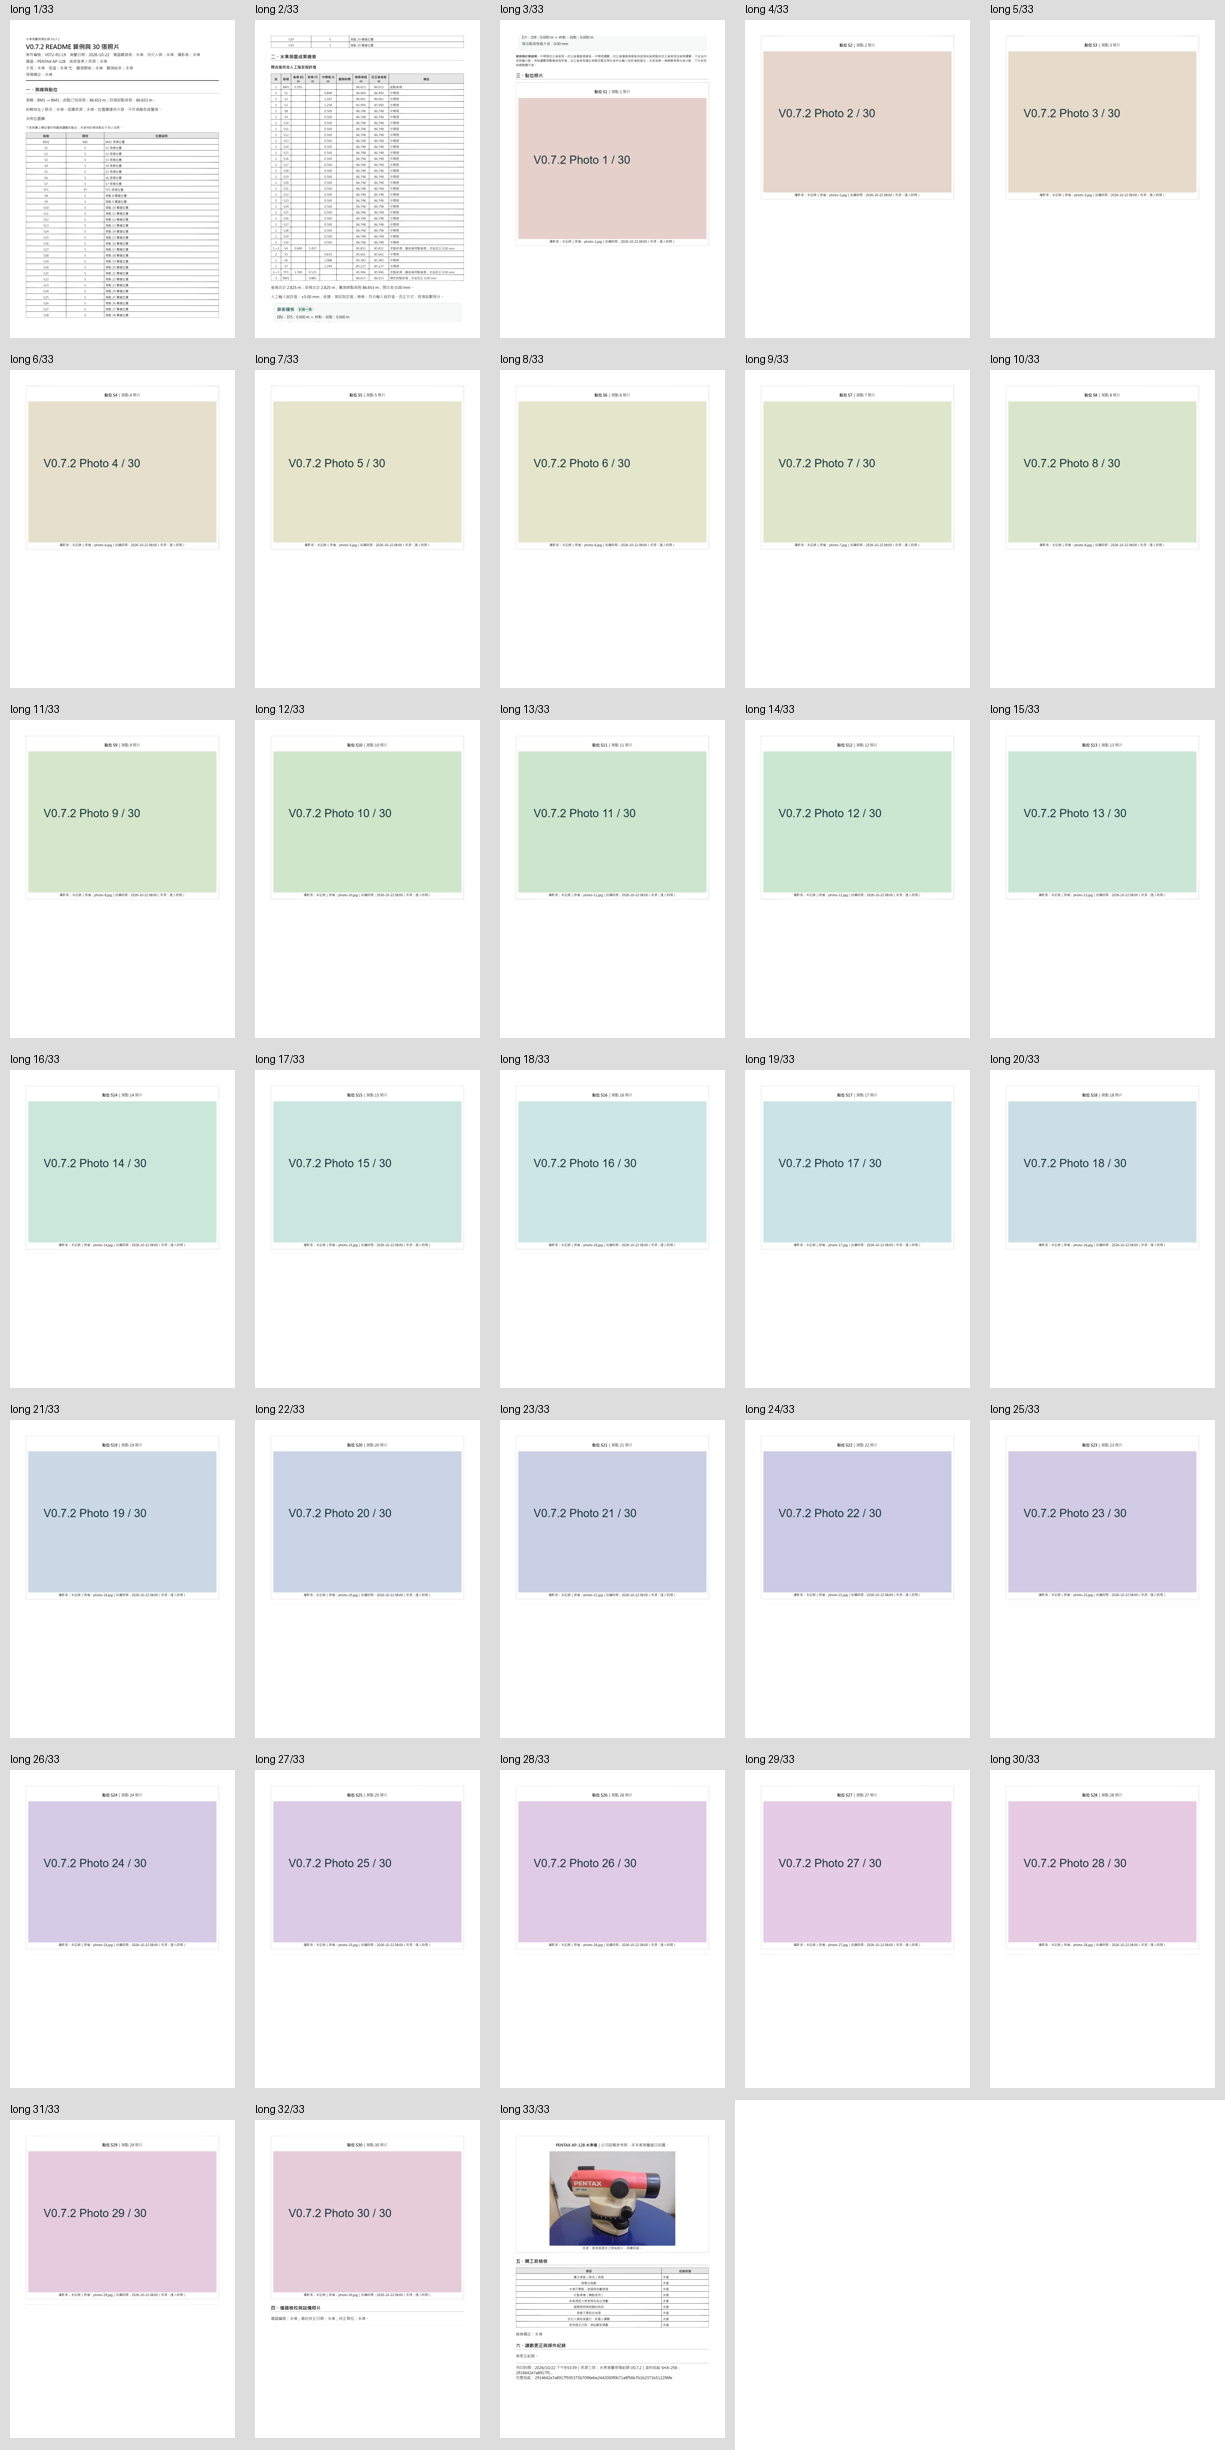
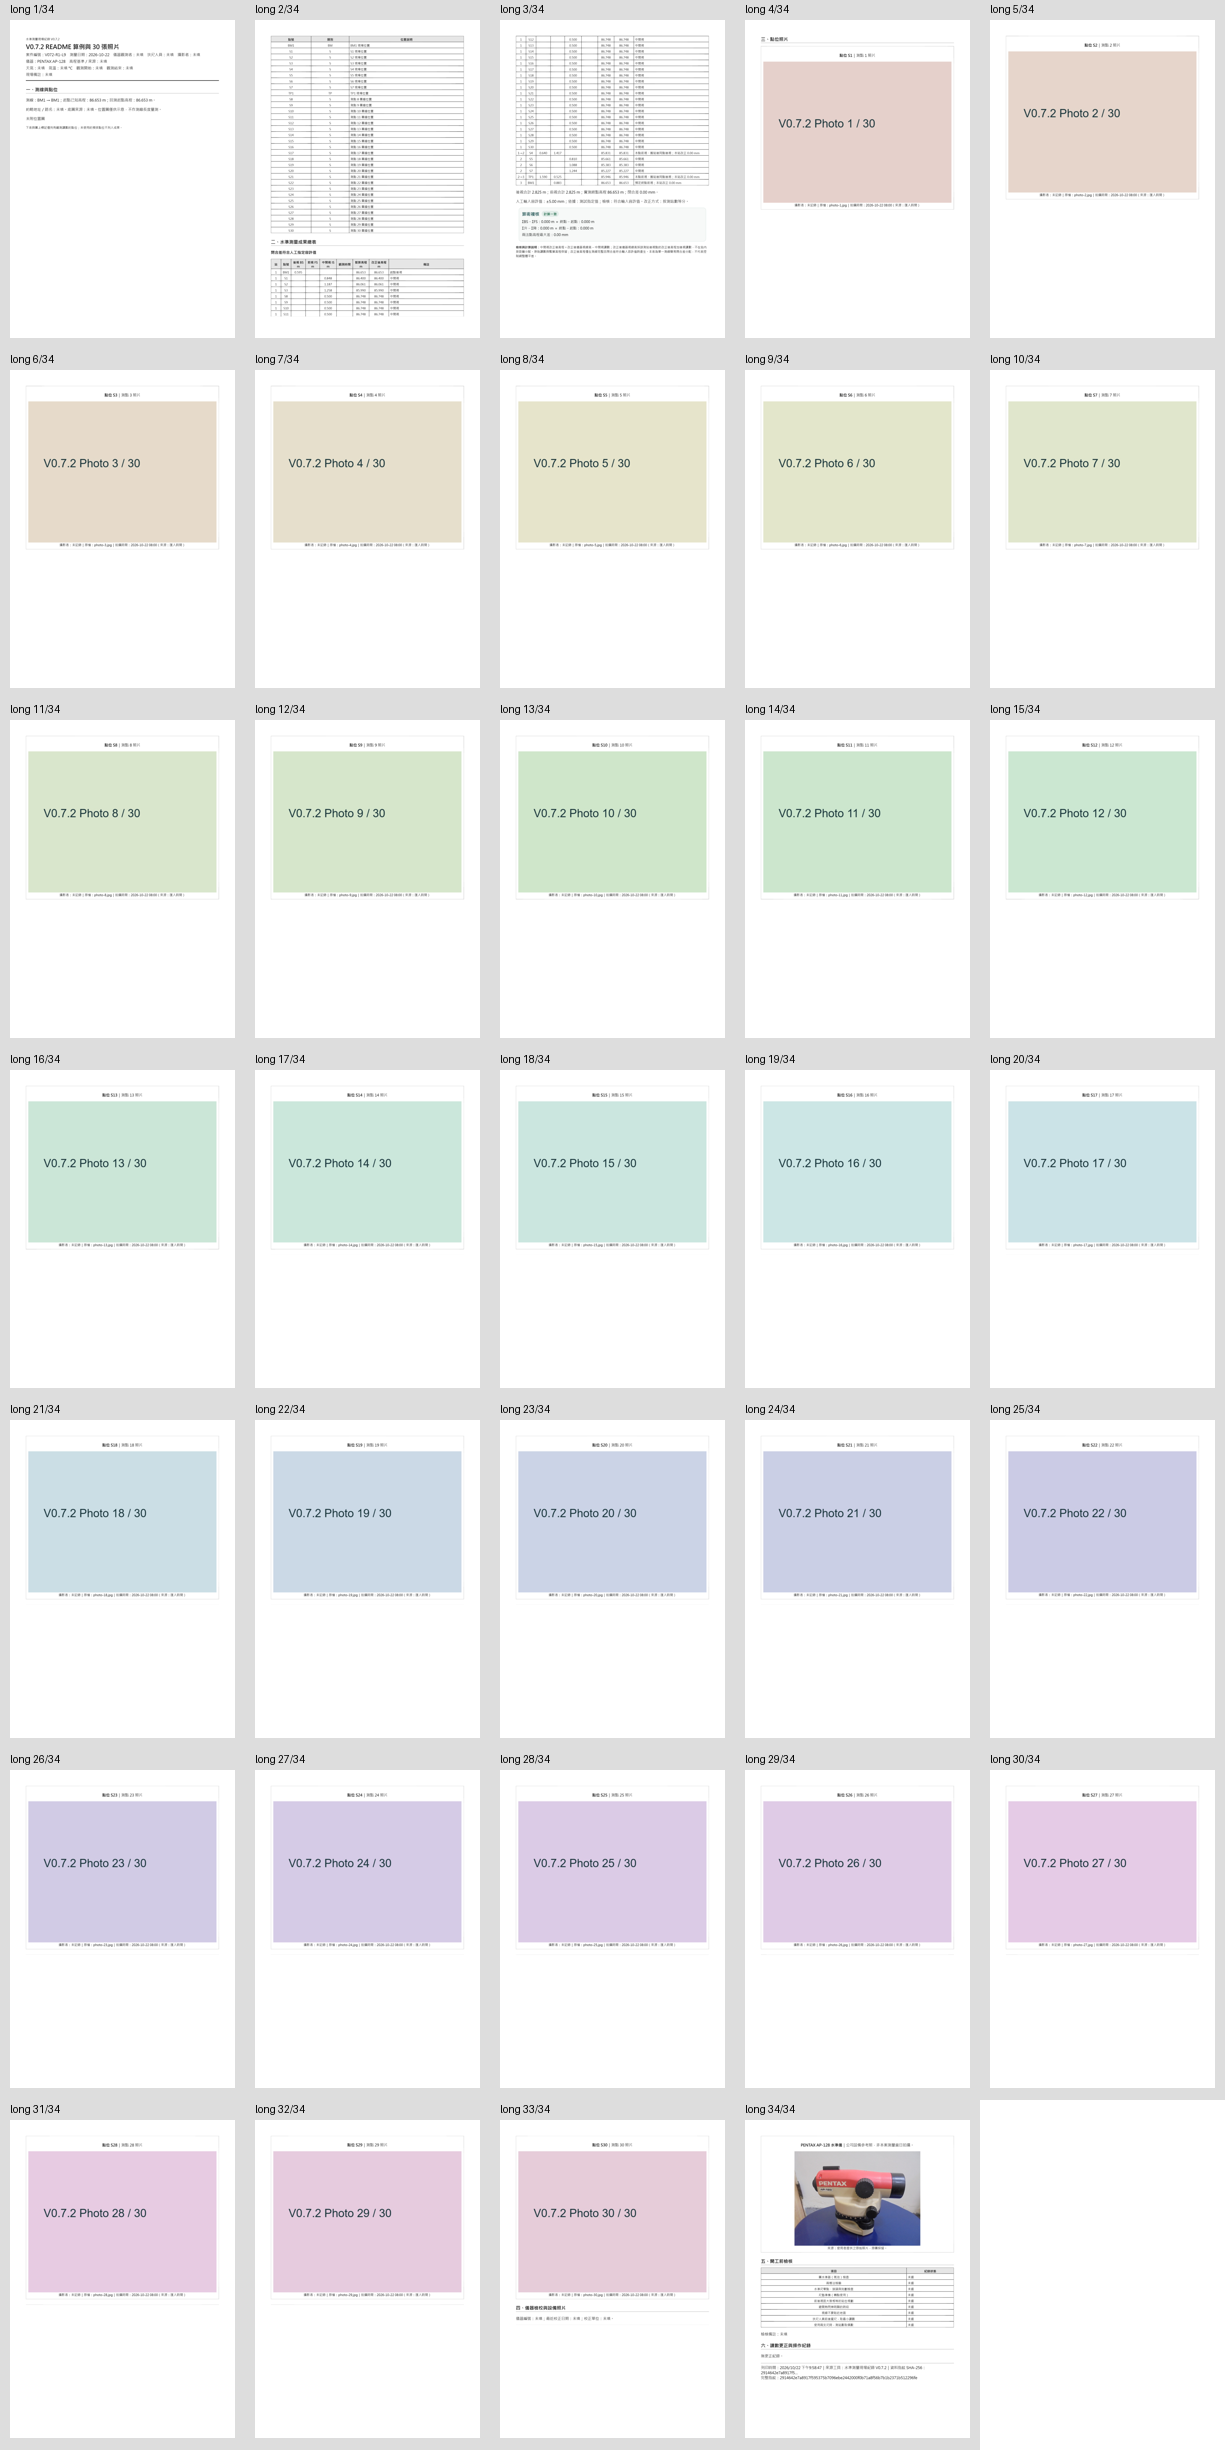
Preserve existing print-avoid report panels in PDF pagination

diff --git a/pdf-pages.test.js b/pdf-pages.test.js
@@ -1,6 +1,6 @@
 import test from 'node:test';
 import assert from 'node:assert/strict';
-import { pageCanvasPlan, CANVAS_LIMITS } from './pdf-pages.js';
+import { pageCanvasPlan, reportBreakPoints, CANVAS_LIMITS } from './pdf-pages.js';
 
 test('L9 long reports keep the scale and bound each page canvas independently of total height', () => {
   const plan = pageCanvasPlan(681, 33157, 1009, 2);
@@ -44,4 +44,19 @@ test('R1 exact boundaries and fractional layout pixels do not lose content or st
   assert.deepEqual(plan.slices.map(slice => slice.end), [1000, 2000]);
   assert.equal(plan.slices.at(-1).end, 2000);
   assert.ok(plan.slices.every(slice => slice.end > slice.start && slice.end - slice.start <= 1000));
+});
+
+test('R1 DOM collection protects existing print-avoid panels, maps, tables and footer in nested offset coordinates', () => {
+  const container = {};
+  const section = { offsetTop: 100, offsetParent: container };
+  const frame = { tagName: 'SECTION', className: 'analysis-panel', textContent: '算術複核', offsetTop: 850, offsetHeight: 140, offsetParent: section, matches: () => false };
+  container.querySelectorAll = selector => {
+    if (selector === 'SECTION') return [frame];
+    for (const required of ['.print-map', '.point-print-table', '.analysis-panel', 'footer']) assert.ok(selector.includes(required));
+    return [frame];
+  };
+  const blocks = reportBreakPoints(container);
+  assert.equal(blocks[0].start, 950);
+  assert.equal(blocks[0].end, 1090);
+  assert.deepEqual(pageCanvasPlan(681, 1500, 1000, 2, blocks).slices.map(slice => slice.end), [950, 1500]);
 });

diff --git a/pdf-pages.js b/pdf-pages.js
@@ -38,7 +38,7 @@ export function reportBreakPoints(container) {
     const index = [...container.querySelectorAll(element.tagName)].indexOf(element) + 1;
     return `${element.tagName.toLowerCase()}${element.className ? '.' + String(element.className).trim().replace(/\s+/g, '.') : ''}[${index}] ${element.textContent.trim().replace(/\s+/g, ' ').slice(0, 90)}`;
   };
-  return [...container.querySelectorAll('h2, h3, tr, .print-photo, .photo-card, .print-alert')].flatMap(element => {
+  return [...container.querySelectorAll('h2, h3, tr, .print-photo, .photo-card, .print-alert, .print-map, .point-print-table, .analysis-panel, footer')].flatMap(element => {
     const following = element.matches('h2, h3') ? element.nextElementSibling : null;
     const block = { start: top(element), end: top(element) + element.offsetHeight, label: label(element) };
     return following ? [block, { ...block, end: Math.max(block.end, top(following) + following.offsetHeight), label: `${block.label} + 首區塊` }] : [block];
